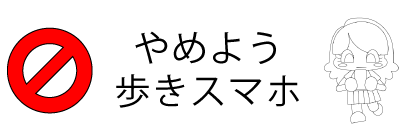
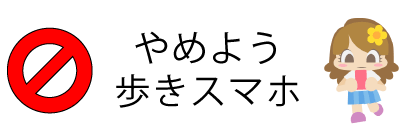
カットイン完成。Playerの位置と当たり判定を調整。

Changed region(s): [[0.7738, 0.1143, 0.9595, 0.8857]]

diff --git a/app/src/main/java/com/hajikoma/nowalkingphone/screen/GameScreen.java b/app/src/main/java/com/hajikoma/nowalkingphone/screen/GameScreen.java
@@ -72,7 +72,7 @@ public class GameScreen extends Screen {
     /** Player */
     private Player player;
     /** Playerのステップ操作の受付範囲 */
-    private Rect onStepArea = new Rect(0, 1000, NoWalkingPhoneGame.TARGET_WIDTH, NoWalkingPhoneGame.TARGET_HEIGHT);
+    private Rect onStepArea = new Rect(0, 800, NoWalkingPhoneGame.TARGET_WIDTH, NoWalkingPhoneGame.TARGET_HEIGHT);
 
     /** Walker */
     private ArrayList<Walker> walkers = new ArrayList<>();
@@ -109,12 +109,14 @@ public class GameScreen extends Screen {
     private SpriteEffect crashSpriteEffect;
 
     // CutIn
-    private SpriteEffect blueCutInBack;
+    private SpriteEffect cutInBackBlue;
+    private SpriteEffect cutInBackYellow;
+    private SpriteEffect cutInBackRed;
     private CutInEffect startCutIn;
     private CutInEffect smashPlusCutIn;
     private CutInEffect dangerCutIn;
 
-    /** CutInの表示キュー */
+    /** CutInの表示キュー（カットインは同時には表示しない） */
     private LinkedList<CutInEffect> cutInQueue = new LinkedList<>();
 
     /** BGM */
@@ -173,10 +175,12 @@ public class GameScreen extends Screen {
         crashSpriteEffect = new SpriteEffect(gra.newPixmap("others/crash.png", PixmapFormat.ARGB4444), 620, new float[]{0.5f});
 
         // CutIn
-        blueCutInBack = new SpriteEffect(gra.newPixmap("others/pipo-btleffect-blue.jpg", PixmapFormat.ARGB4444), 320, new float[]{0.1f, 0.1f, 0.1f});
-        startCutIn = new CutInEffect(gra.newPixmap("cutin/start.png", PixmapFormat.ARGB4444), blueCutInBack);
-        smashPlusCutIn = new CutInEffect(gra.newPixmap("cutin/smash_plus.png", PixmapFormat.ARGB4444), blueCutInBack);
-        dangerCutIn = new CutInEffect(gra.newPixmap("cutin/life_danger.png", PixmapFormat.ARGB4444), blueCutInBack);
+        cutInBackBlue = new SpriteEffect(gra.newPixmap("cutin/cutin_back_blue.jpg", PixmapFormat.RGB565), 360, new float[]{0.1f, 0.1f, 0.1f});
+        cutInBackYellow = new SpriteEffect(gra.newPixmap("cutin/cutin_back_yellow.jpg", PixmapFormat.RGB565), 360, new float[]{0.1f, 0.1f, 0.1f});
+        cutInBackRed = new SpriteEffect(gra.newPixmap("cutin/cutin_back_red.jpg", PixmapFormat.RGB565), 360, new float[]{0.1f, 0.1f, 0.1f});
+        startCutIn = new CutInEffect(gra.newPixmap("cutin/start.png", PixmapFormat.ARGB4444), cutInBackBlue);
+        smashPlusCutIn = new CutInEffect(gra.newPixmap("cutin/smash_plus.png", PixmapFormat.ARGB4444), cutInBackBlue);
+        dangerCutIn = new CutInEffect(gra.newPixmap("cutin/life_danger.png", PixmapFormat.ARGB4444), cutInBackRed);
 
         // BGM
         bgm = aud.newMusic("music/me_6777276_Race.mp3");
@@ -308,8 +312,8 @@ public class GameScreen extends Screen {
                 }
 
                 // 描画処理
-                player.action(deltaTime);
                 actWalkerBehindToForward(deltaTime);
+                player.action(deltaTime);
                 crashSpriteEffect.play(deltaTime);
                 smashEffect.play(deltaTime);
 
@@ -500,7 +504,7 @@ public class GameScreen extends Screen {
         return walkerState != Walker.ActionType.CRASH
                 && walkerState != Walker.ActionType.VANISH
                 && player.getState() != Player.ActionType.STEP_LEFT
-                && location.bottom >= 1010 && location.bottom <= 1060;
+                && location.bottom >= 1050 && location.bottom <= 1100;
     }
 
 
@@ -532,32 +536,32 @@ public class GameScreen extends Screen {
             case 3:
                 nextWalkerType = WalkerManager.SCHOOL;
                 manager.appearedFlags[WalkerManager.SCHOOL] = true;
-                cutIn = new CutInEffect(gra.newPixmap("cutin/appear_school.png", PixmapFormat.ARGB4444), blueCutInBack);
+                cutIn = new CutInEffect(gra.newPixmap("cutin/appear_school.png", PixmapFormat.ARGB4444), cutInBackYellow);
                 break;
             case 10:
                 nextWalkerType = WalkerManager.GRANDMA;
                 manager.appearedFlags[WalkerManager.GRANDMA] = true;
-                cutIn = new CutInEffect(gra.newPixmap("cutin/appear_grandma.png", PixmapFormat.ARGB4444), blueCutInBack);
+                cutIn = new CutInEffect(gra.newPixmap("cutin/appear_grandma.png", PixmapFormat.ARGB4444), cutInBackYellow);
                 break;
             case 30:
                 nextWalkerType = WalkerManager.GIRL;
                 manager.appearedFlags[WalkerManager.GIRL] = true;
-                cutIn = new CutInEffect(gra.newPixmap("cutin/appear_girl.png", PixmapFormat.ARGB4444), blueCutInBack);
+                cutIn = new CutInEffect(gra.newPixmap("cutin/appear_girl.png", PixmapFormat.ARGB4444), cutInBackYellow);
                 break;
             case 60:
                 nextWalkerType = WalkerManager.MANIA;
                 manager.appearedFlags[WalkerManager.MANIA] = true;
-                cutIn = new CutInEffect(gra.newPixmap("cutin/appear_mania.png", PixmapFormat.ARGB4444), blueCutInBack);
+                cutIn = new CutInEffect(gra.newPixmap("cutin/appear_mania.png", PixmapFormat.ARGB4444), cutInBackYellow);
                 break;
             case 90:
                 nextWalkerType = WalkerManager.VISITOR;
                 manager.appearedFlags[WalkerManager.VISITOR] = true;
-                cutIn = new CutInEffect(gra.newPixmap("cutin/appear_visitor.png", PixmapFormat.ARGB4444), blueCutInBack);
+                cutIn = new CutInEffect(gra.newPixmap("cutin/appear_visitor.png", PixmapFormat.ARGB4444), cutInBackYellow);
                 break;
             case 120:
                 nextWalkerType = WalkerManager.CAR;
                 manager.appearedFlags[WalkerManager.CAR] = true;
-                cutIn = new CutInEffect(gra.newPixmap("cutin/appear_car.png", PixmapFormat.ARGB4444), blueCutInBack);
+                cutIn = new CutInEffect(gra.newPixmap("cutin/appear_car.png", PixmapFormat.ARGB4444), cutInBackYellow);
                 break;
         }
 

diff --git a/app/src/main/java/com/hajikoma/nowalkingphone/CutInEffect.java b/app/src/main/java/com/hajikoma/nowalkingphone/CutInEffect.java
@@ -23,8 +23,10 @@ public class CutInEffect {
     private static final int DST_HEIGHT = 240;
     /** 画像描画位置top */
     private static final int DST_TOP = 500;
-    /** カットインエフェクトの折り返し時間 */
-    private static final float HALF_TIME = 1.5f;
+    /** 画像描画位置left */
+    private int left = -80;
+    /** カットインエフェクト全体の表示時間 */
+    private static final float EFFECT_TIME = 3.0f;
 
 
     /**
@@ -58,14 +60,15 @@ public class CutInEffect {
 
         timer += deltaTime;
 
-        if (timer < HALF_TIME) {
+        if (timer < EFFECT_TIME * 4 / 5) {
             backEffect.play(deltaTime);
-            int left = (int) Math.pow((double) ((HALF_TIME - timer) * 30), 2);
+            left += 2;
             drawImage(left);
             return true;
-        } else if(timer < HALF_TIME + HALF_TIME){
+        } else if (timer < EFFECT_TIME) {
+            // 残り1/5でスライドアウト
             backEffect.play(deltaTime);
-            int left = (int) Math.pow((double) ((timer - HALF_TIME) * 30), 2);
+            left += (int) Math.pow((double) (timer * 7), 2);
             drawImage(left);
             return true;
         }
@@ -74,6 +77,7 @@ public class CutInEffect {
         isAnimate = false;
         backEffect.off();
         timer = 0.0f;
+        left = -80;
         return false;
     }
 

diff --git a/app/src/main/java/com/hajikoma/nowalkingphone/Player.java b/app/src/main/java/com/hajikoma/nowalkingphone/Player.java
@@ -33,7 +33,7 @@ public class Player extends SpriteImage {
     private float actionTime = 0.0f;
 
     /** Playerの描画先 */
-    private Rect defaultDstArea = new Rect(220, 900, 500, 1200);
+    private Rect defaultDstArea = new Rect(210, 800, 510, 1100);
 
 
     /**
@@ -43,7 +43,7 @@ public class Player extends SpriteImage {
      * @param colWidth visualの中の、一画像の幅
      */
     public Player(Pixmap visual, Integer colWidth) {
-        super(visual, colWidth, new Rect(220, 900, 500, 1200));
+        super(visual, colWidth, new Rect(210, 800, 510, 1100));
         state = ActionType.WALK;
     }
 
@@ -104,16 +104,16 @@ public class Player extends SpriteImage {
      */
     public void damage() {
         if (actionTime <= 0.2f) {
-            move(0, 5);
+            move(2, 3);
             drawAction(0);
         } else if (actionTime <= 0.4f) {
-            move(0, 4);
+            move(-2, 2);
             drawAction(0);
         } else if (actionTime <= 0.6f) {
-            move(0, 3);
+            move(1, 2);
             drawAction(0);
         } else if (actionTime <= 0.8f) {
-            move(0, 2);
+            move(-1, 1);
             drawAction(0);
         } else if (actionTime <= 1.0f) {
             move(0, 1);
